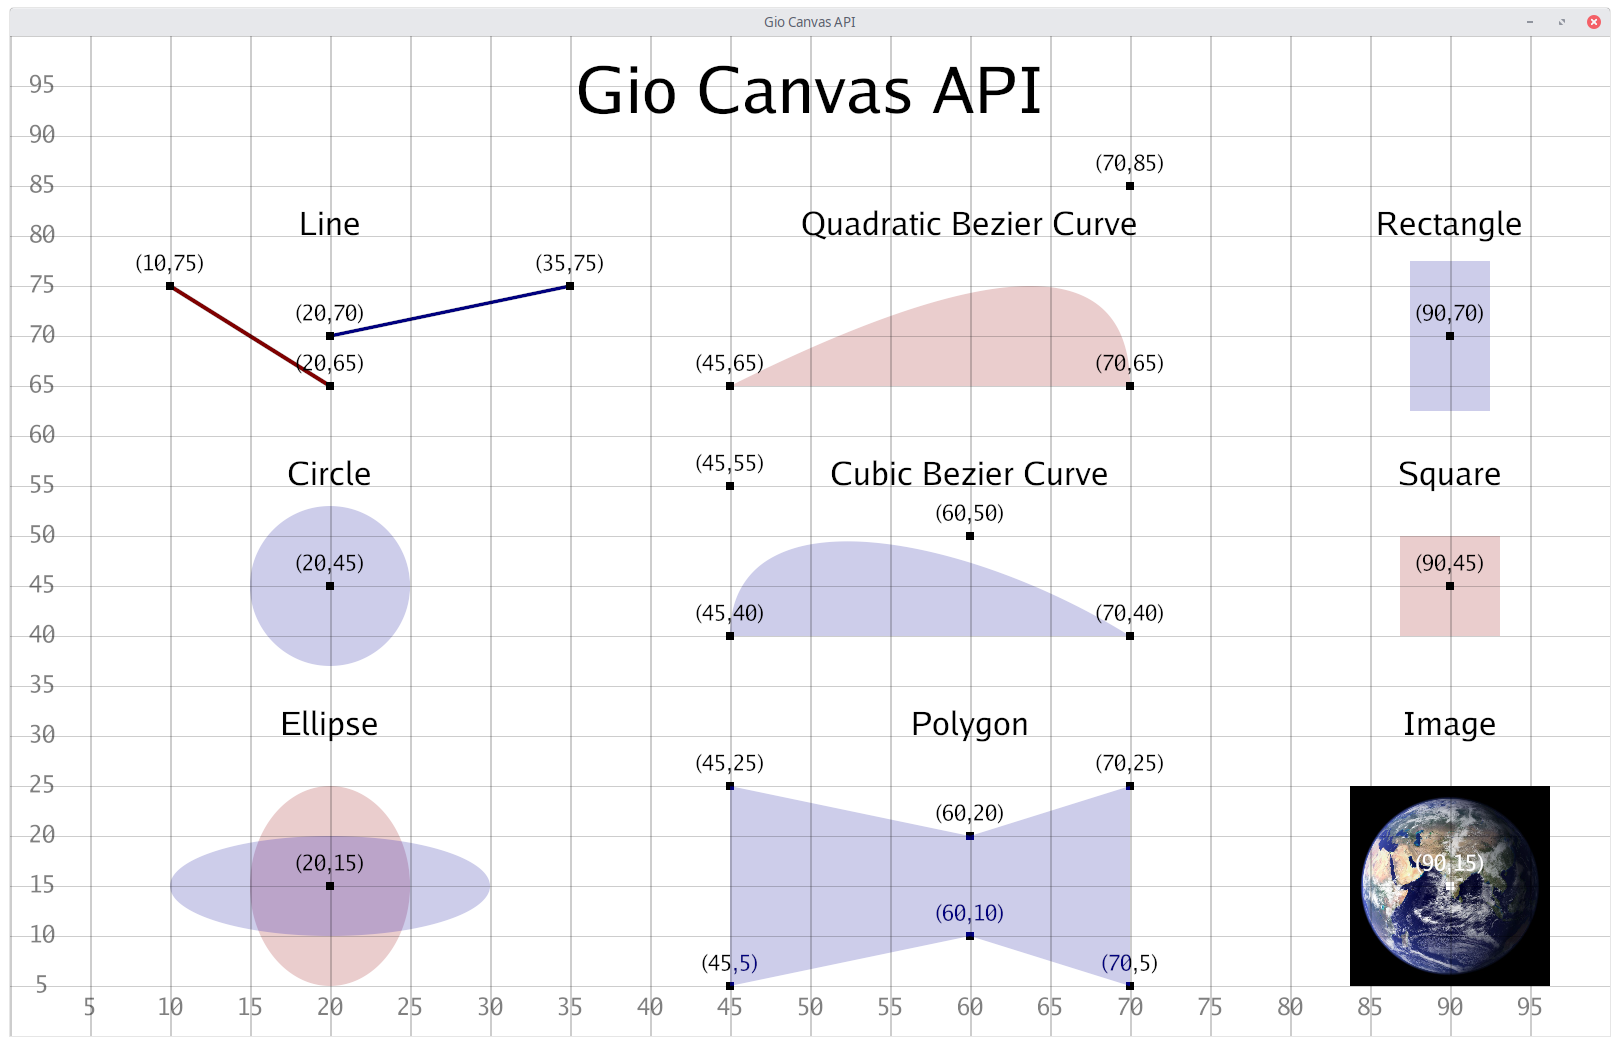
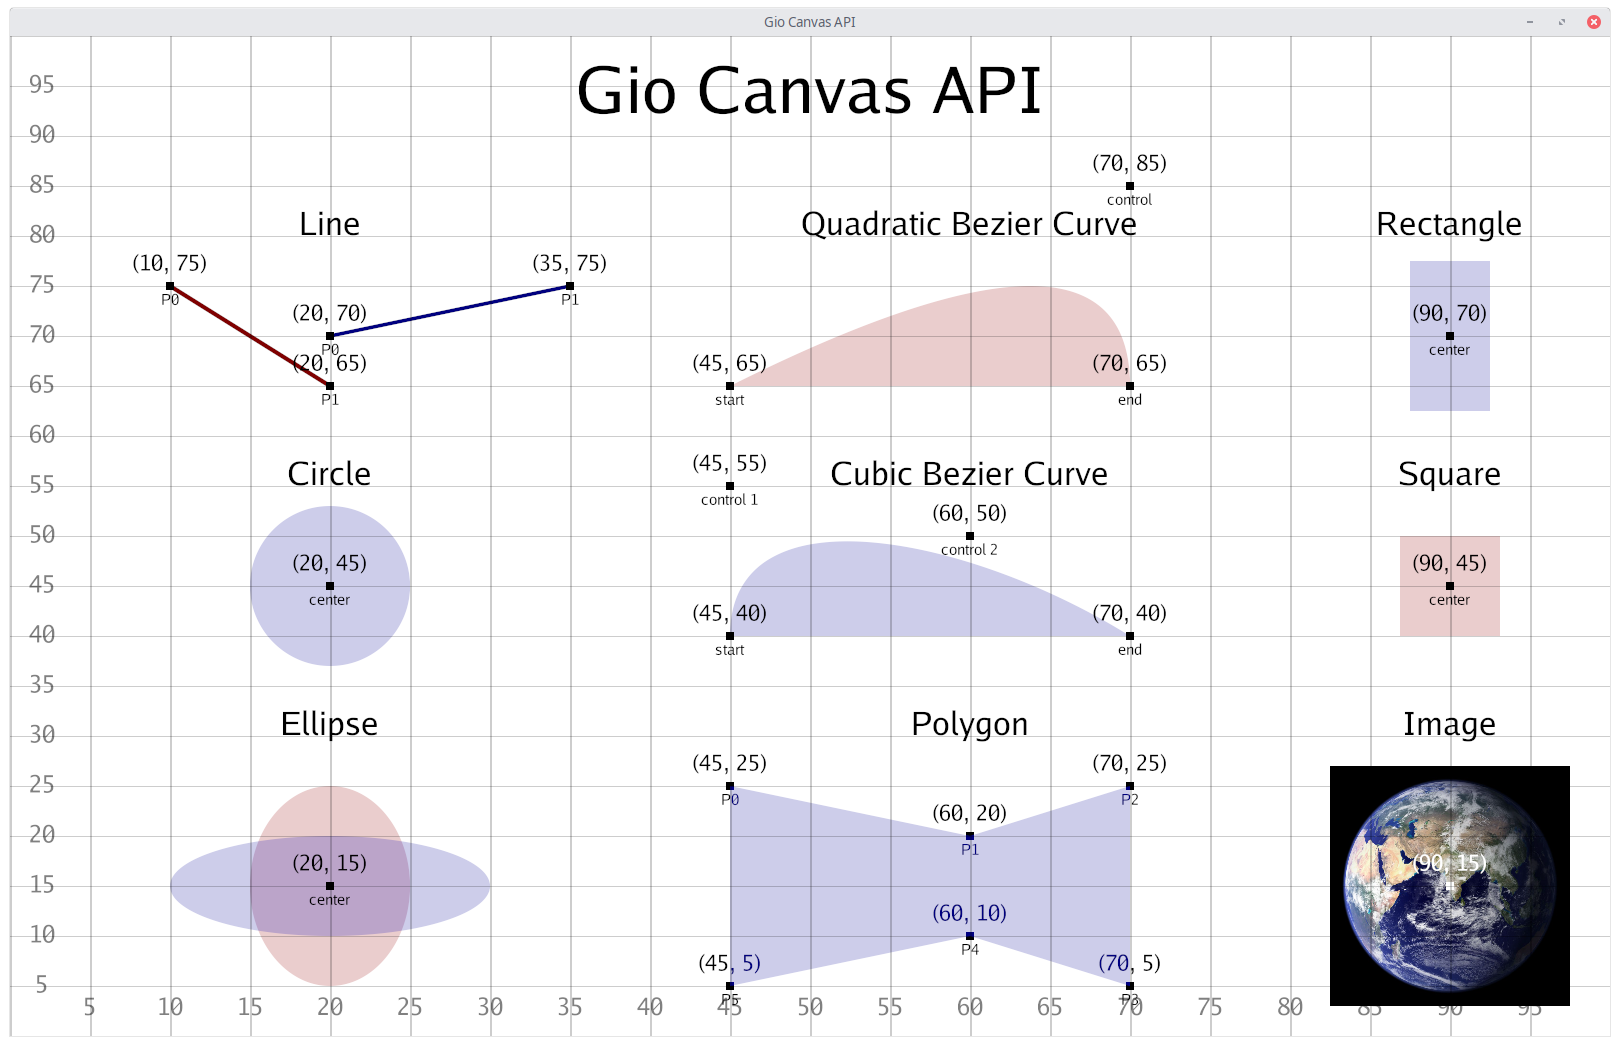
update illustrations, correct labels in play

diff --git a/play/main.go b/play/main.go
@@ -13,10 +13,10 @@ import (
 	"github.com/ajstarks/giocanvas"
 )
 
-func play(s string, w, h int, showgrid bool) {
+func play(appname string, w, h int, showgrid bool) {
 	width, height := float32(w), float32(h)
 	size := app.Size(unit.Dp(width), unit.Dp(height))
-	title := app.Title("Gio Canvas API")
+	title := app.Title(appname)
 	tcolor := color.RGBA{128, 0, 0, 255}
 	fcolor := color.RGBA{0, 0, 128, 255}
 	bgcolor := color.RGBA{255, 255, 255, 255}
@@ -35,7 +35,7 @@ func play(s string, w, h int, showgrid bool) {
 
 			// Title
 			canvas.Background(bgcolor)
-			canvas.TextMid(50, 92, titlesize, "Gio Canvas API", labelcolor)
+			canvas.TextMid(50, 92, titlesize, appname, labelcolor)
 
 			colx = 20
 			// Lines
@@ -82,9 +82,9 @@ func play(s string, w, h int, showgrid bool) {
 			canvas.TextMid(colx, 55, labelsize, "Cubic Bezier Curve", labelcolor)
 			canvas.CubeCurve(start.X, start.Y, c1.X, c1.Y, c2.X, c2.Y, end.X, end.Y, fcolor)
 			canvas.Coord(start.X, start.Y, subsize, "start", labelcolor)
-			canvas.Coord(end.X, end.Y, subsize, "ctrl 1", labelcolor)
-			canvas.Coord(c1.X, c1.Y, subsize, "ctrl 2", labelcolor)
-			canvas.Coord(c2.X, c2.Y, subsize, "end", labelcolor)
+			canvas.Coord(end.X, end.Y, subsize, "end", labelcolor)
+			canvas.Coord(c1.X, c1.Y, subsize, "control 1", labelcolor)
+			canvas.Coord(c2.X, c2.Y, subsize, "control 2", labelcolor)
 
 			// Polygon
 			canvas.TextMid(colx, 30, labelsize, "Polygon", labelcolor)
@@ -132,6 +132,6 @@ func main() {
 	flag.IntVar(&h, "height", 1000, "canvas height")
 	flag.BoolVar(&showgrid, "grid", false, "show grid")
 	flag.Parse()
-	go play("Go API", w, h, showgrid)
+	go play("Gio Canvas API", w, h, showgrid)
 	app.Main()
 }
